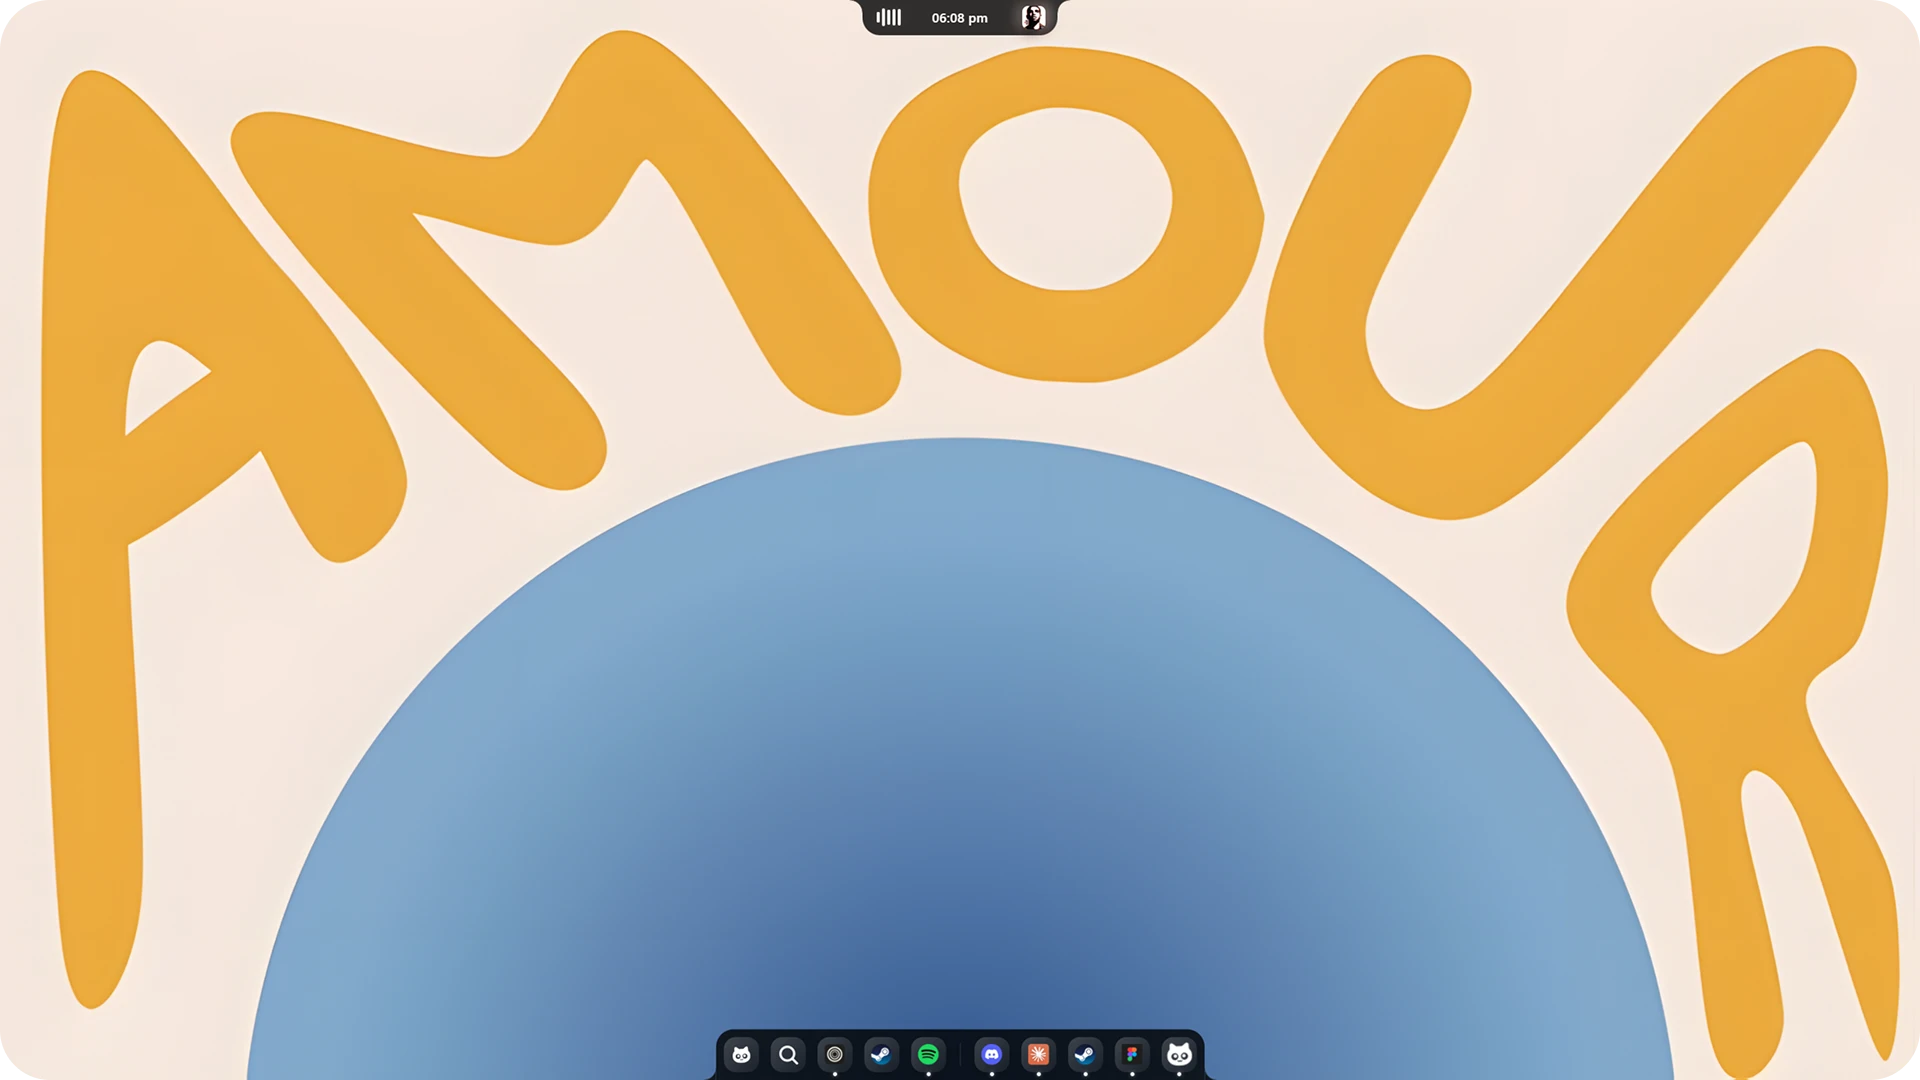
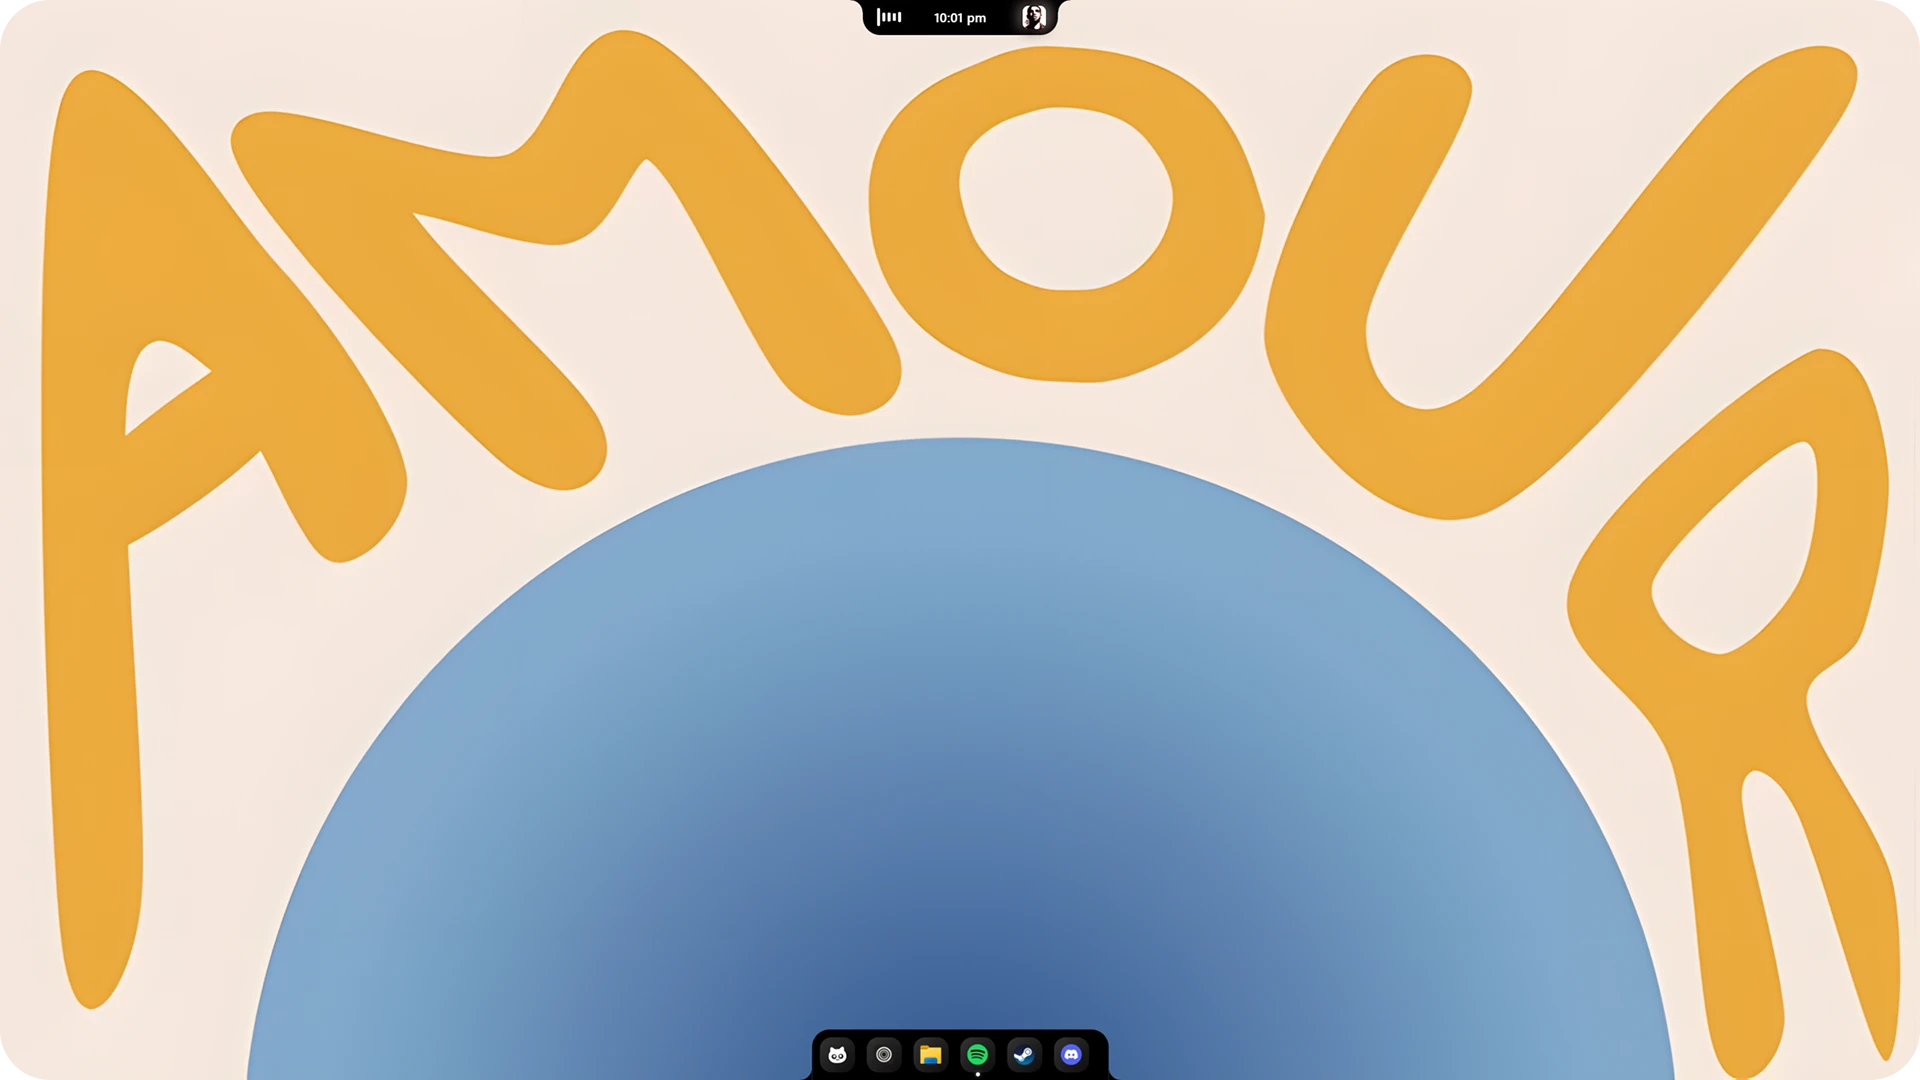
Update README

Changed region(s): [[0.375, 0.9472, 0.6562, 1.0], [0.4375, 0.0, 0.5625, 0.0306]]

diff --git a/README.md b/README.md
@@ -1,63 +1,131 @@
 <div align="center">
 
-<img src="src-tauri/icons/icon.png" width="72" />
+<img src="docs/logo.png" width="160" alt="Nectar logo" />
 
-# Nectar
+<br />
+
+<picture>
+  <source media="(prefers-color-scheme: dark)" srcset="docs/wordmark-dark.png" />
+  <img src="docs/wordmark-light.png" height="48" alt="Nectar" />
+</picture>
+
+**A notch and a dock for Windows: physics-animated, reactive, and built to replace your taskbar.**
+
+<br />
+
+[![Latest release](https://img.shields.io/github/v/release/kua8/Nectar?style=flat-square&color=2f81f7)](https://github.com/kua8/Nectar/releases/latest)
+[![Downloads](https://img.shields.io/github/downloads/kua8/Nectar/total?style=flat-square&color=2f81f7)](https://github.com/kua8/Nectar/releases)
+[![License](https://img.shields.io/github/license/kua8/Nectar?style=flat-square&color=2f81f7)](LICENSE)
+![Platform](https://img.shields.io/badge/platform-Windows-2f81f7?style=flat-square)
+
+[**Download**](https://github.com/kua8/Nectar/releases/latest) &nbsp;·&nbsp; [Features](#features) &nbsp;·&nbsp; [Multiple monitors](#multiple-monitors) &nbsp;·&nbsp; [Settings](SETTINGS.md) &nbsp;·&nbsp; [Build from source](#build-from-source)
+
+<br />
+
+<img src="docs/screenshots/desktop.webp" width="820" alt="Nectar's notch and dock on a Windows desktop" />
 
 </div>
 
----
+<br />
 
-Nectar makes your Windows desktop feel alive: a macOS-style notch/island at the top of your screen and a dock that replaces your taskbar, both physics-animated and reactive.
+Nectar is a fork of [Bloom](https://github.com/SehajveerSingh2005/bloom) by Sehajveer Singh, and the concept and the codebase it grew from are theirs. It is rebranded end to end and maintained independently, with its own fixes and direction.
 
-**Nectar is a fork of [Bloom](https://github.com/SehajveerSingh2005/bloom) by Sehajveer Singh** — full credit to the original project for the concept and the implementation this is built on. In one sentence: Nectar is the same idea under new ownership, rebranded end-to-end and maintained independently, with its own fixes, changes, and direction going forward.
+## Features
 
----
+- **A notch that does things.** Music, quick controls, system stats, and a calendar in one spring-animated island at the top of your screen.
+- **A dock that replaces your taskbar.** It mirrors your real taskbar (same pinned apps, same order, real icons and names) and hides the native one.
+- **Native where it counts.** The system tray opens the actual Windows flyout, and Quit ends an app the way Task Manager's End task does.
+- **Yours to shape.** Themes, three visibility modes, per-monitor placement, and every option in a plain `settings.json` you can edit live.
+- **Light on the system.** Audio capture, cursor tracking, and thumbnail work pause themselves when nothing needs them.
+
+## The Notch
+
+A notch at the top of your screen that adapts to what you're doing. Scroll or swipe to change modes, or pin it in place like a hardware notch.
 
 <div align="center">
-<img src="docs/screenshots/desktop.webp" width="720" alt="Nectar notch and dock on the desktop" style="border-radius: 16px;" />
+<img src="docs/screenshots/island.png" width="420" alt="The Nectar notch showing the time and now-playing artwork" />
 </div>
 
----
+<br />
 
-## The Island
+| Mode | What it does |
+| --- | --- |
+| **Music** | Album art, track info, playback controls, and a visualizer that reacts to five frequency bands. |
+| **Command Center** | Wi-Fi, Bluetooth, Do Not Disturb, volume, and brightness without opening Windows Settings. |
+| **Status** | Battery (hidden automatically on desktops without one) and weather, in a layout you choose. |
+| **Calendar** | A month view with a built-in Pomodoro timer. |
 
-A notch at the top of your screen that adapts to what you're doing. Scroll or swipe to switch modes, or set it to stay fixed like a real hardware notch.
+Width, height, corner radius, and position each animate on their own spring, so every transition feels physical.
 
-- **Music** — album art, track info, playback controls, and a visualizer that reacts to five frequency bands with spring physics.
-- **Command Center** — WiFi, Bluetooth, Do Not Disturb, volume, brightness — the stuff you usually dig through Windows settings for.
-- **Status** — battery (auto-hidden on desktops with no battery) and weather, with a configurable widget layout.
-- **Calendar** — a month view with a Pomodoro timer built in.
+**Visibility modes** (Settings › Notch):
 
-Each transition is spring-loaded — width, height, border-radius, and position all animate independently. In **smart**/**peek** mode the notch still reveals and stays fully clickable over a fullscreen app; only a thin strip right at the screen edge stays click-through, so it never steals input meant for whatever else you're running (a screenshot tool, a game).
+| Mode | Behavior |
+| --- | --- |
+| **Fixed** | Always visible, even over fullscreen apps, like a real hardware notch. |
+| **Smart** | Hides when another window overlaps it and reveals on hover. |
+| **Peek** | Hidden until the cursor reaches the top edge, or a media event or notification arrives. |
 
-<div align="center">
-<img src="docs/screenshots/island.png" width="360" alt="Nectar island close-up" style="border-radius: 16px;" />
-</div>
+In Smart and Peek the notch stays fully clickable when it's revealed. Only a thin strip at the very edge of the screen stays click-through, so it never swallows input meant for a screenshot tool or a game. The notch never reserves desktop space, so it can't leave a gap above maximized windows.
 
 ## The Dock
 
-A taskbar that actually moves. Nectar replaces your native Windows taskbar and sits at the bottom of the screen: drag to reorder, hover for window previews, right-click for context menus. A Start-adjacent search icon opens Windows Search directly.
-
-Pinned and running apps stay in two separate groups by default, with a divider marking the split — flip "Mix Pinned & Running" in Settings to drag any icon anywhere instead.
+A taskbar that moves. Drag icons to reorder, hover for window previews, and right-click for a context menu that always opens above the dock.
 
 <div align="center">
-<img src="docs/screenshots/dock.png" width="480" alt="Nectar dock close-up" style="border-radius: 16px;" />
+<img src="docs/screenshots/dock.png" width="520" alt="The Nectar dock with pinned apps" />
 </div>
 
-## Under the Hood
+<br />
 
-A Rust backend that talks directly to the Windows shell — global input hooks, WASAPI for real-time system audio capture, COM for media session control, WMI for hardware monitoring. Idle work (the audio visualizer, cursor tracking, thumbnail capture) pauses itself when there's nothing to react to.
+- **Your taskbar, mirrored.** On first launch Nectar imports the apps pinned to your Windows taskbar, in the same order, including File Explorer, Discord, and Microsoft Store apps.
+- **Real icons and names.** Windows Settings shows its gear and Task Manager is called "Task Manager", not `taskmgr`.
+- **Pinned and running, separated.** A divider marks the split by default. Turn on **Mix Pinned & Running** to drag any icon anywhere.
+- **Quit means quit.** Right-click › Quit ends the app like End task in Task Manager.
+- **Search built in.** A search icon beside Start opens Windows Search.
+- **Native tray.** The tray button opens the real Windows hidden-icons flyout under the notch.
 
-Every setting lives in a plain `settings.json` you can edit or script directly — see [SETTINGS.md](SETTINGS.md) for the full reference. Settings > About also has a real "Reset to Defaults" that actually resets everything, not just the ones that happen to not be cached.
+Dock visibility uses the same **Fixed**, **Smart**, and **Peek** modes as the notch. Fixed reserves screen space like a normal taskbar, Smart hides when a window overlaps it, and Peek stays out of the way until you approach the bottom edge.
 
----
+## Multiple monitors
 
-## Get It Running
+The dock and the notch each have a **Show On** setting, chosen separately in Settings:
 
-**Download** the latest build from [Releases](https://github.com/kua8/Nectar/releases/latest). The installer asks whether to install for just you or all users — pick either.
+| Show On | Result |
+| --- | --- |
+| **Primary Monitor** | Shown on your primary display only. This is the default. |
+| **All Monitors** | Every connected display gets its own copy. |
+| **Specific Monitor** | Pinned to one display you choose from a list. |
 
-Or build from source:
+Because the two are independent, the same app can look very different from one machine to the next:
+
+- **Dock and notch on every monitor.** Each screen looks the same, and each dock reserves its own space at the bottom.
+- **Dock on the primary only.** The other screens have no taskbar at all, since the Windows taskbar is hidden on every monitor while Nectar's dock is on. Maximized windows there use the full screen.
+- **Notch on one screen, dock on another.** Works fine, and each one follows its own visibility mode.
+- **Dock turned off.** The native Windows taskbar comes back on every monitor.
+
+Extra monitors get their own windows, so **All Monitors** uses somewhat more CPU and memory than a single display. If you're on a low-power machine, keep **Show On** on one monitor.
+
+## Under the hood
+
+The backend is Rust and talks straight to the Windows shell: global input hooks, WASAPI for real-time system audio, COM for media session control, and WMI for hardware monitoring. The interface is React, animated with springs.
+
+Every setting lives in one plain `settings.json` that Nectar watches and applies as you save, so you can script it or keep it in your dotfiles. [SETTINGS.md](SETTINGS.md) has the full reference. **Settings › About › Reset to Defaults** resets everything.
+
+## Install
+
+1. Download the installer from the [latest release](https://github.com/kua8/Nectar/releases/latest).
+2. Choose **Just me** or **All users**. An all-users install asks for administrator permission once.
+3. Nectar starts with a short splash animation, then the notch and dock appear together.
+
+Nectar updates itself: a green dot on the notch means an update is ready, and you can turn on **Auto Update** in **Settings › About**. **Launch at Login** is in **Settings › General**.
+
+**Uninstall** from Windows Settings › Apps, or from **Settings › About** inside Nectar. Both remove the app and put your native taskbar back.
+
+If Nectar is ever force-closed, it restores the Windows taskbar the next time it starts.
+
+## Build from source
+
+You'll need [Rust](https://rustup.rs/) and [Bun](https://bun.sh/).
 
 ```bash
 git clone https://github.com/kua8/Nectar.git
@@ -66,10 +134,12 @@ bun install
 bun run tauri dev
 ```
 
-You'll need [Rust](https://rustup.rs/) and [Bun](https://bun.sh/).
-
----
+To produce a release build, run `bun run tauri build`.
 
 ## Contributing
 
-Nectar is open source under [GPLv3](LICENSE). Found a bug or have an idea? Open an issue or send a PR.
+Found a bug or have an idea? [Open an issue](https://github.com/kua8/Nectar/issues) or send a pull request. Say which Windows version and monitor setup you're on if it's a display bug, since that is often what decides it.
+
+## License
+
+Nectar is open source under the [GPLv3](LICENSE).
